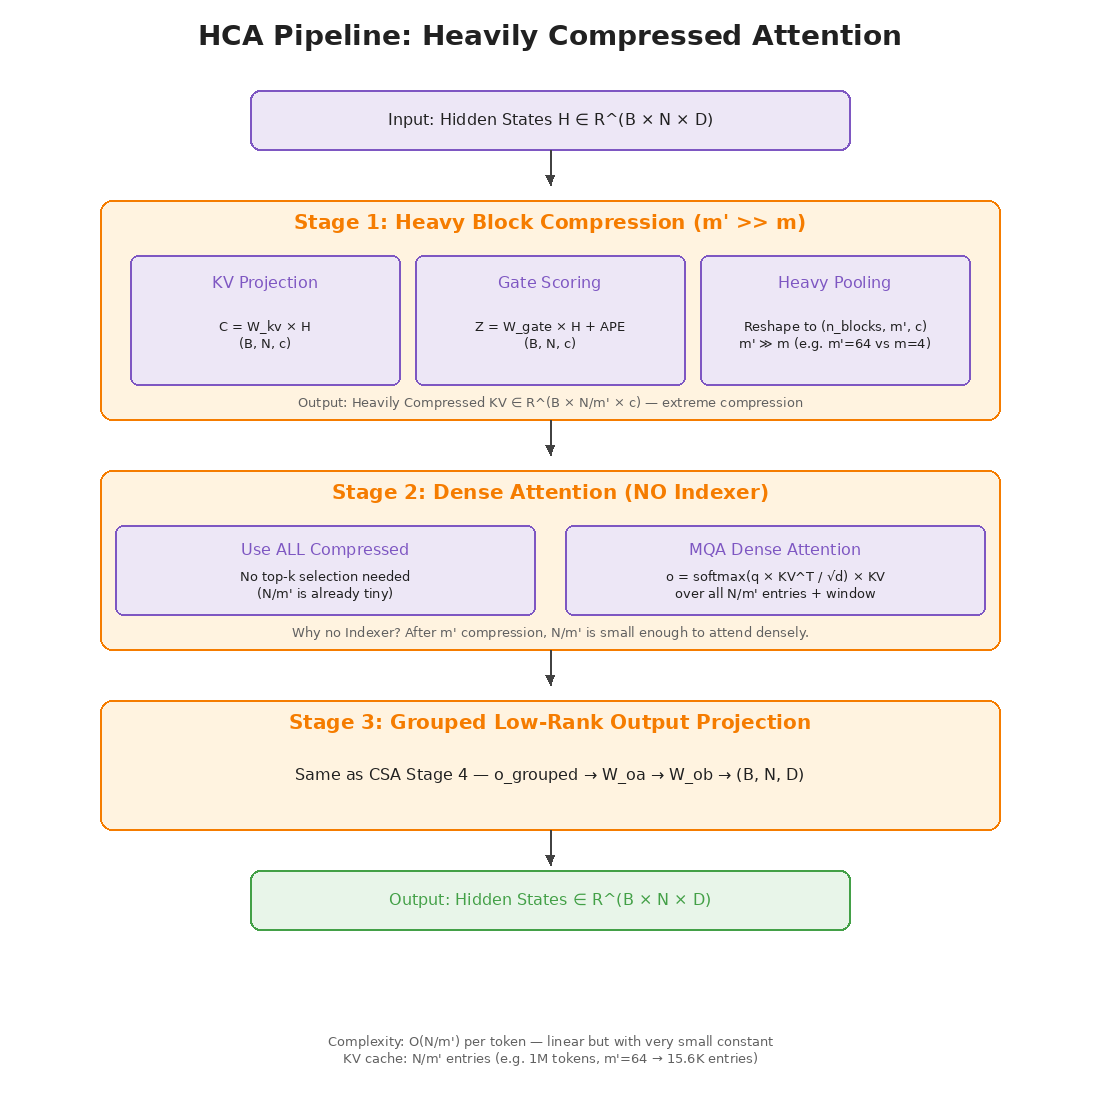
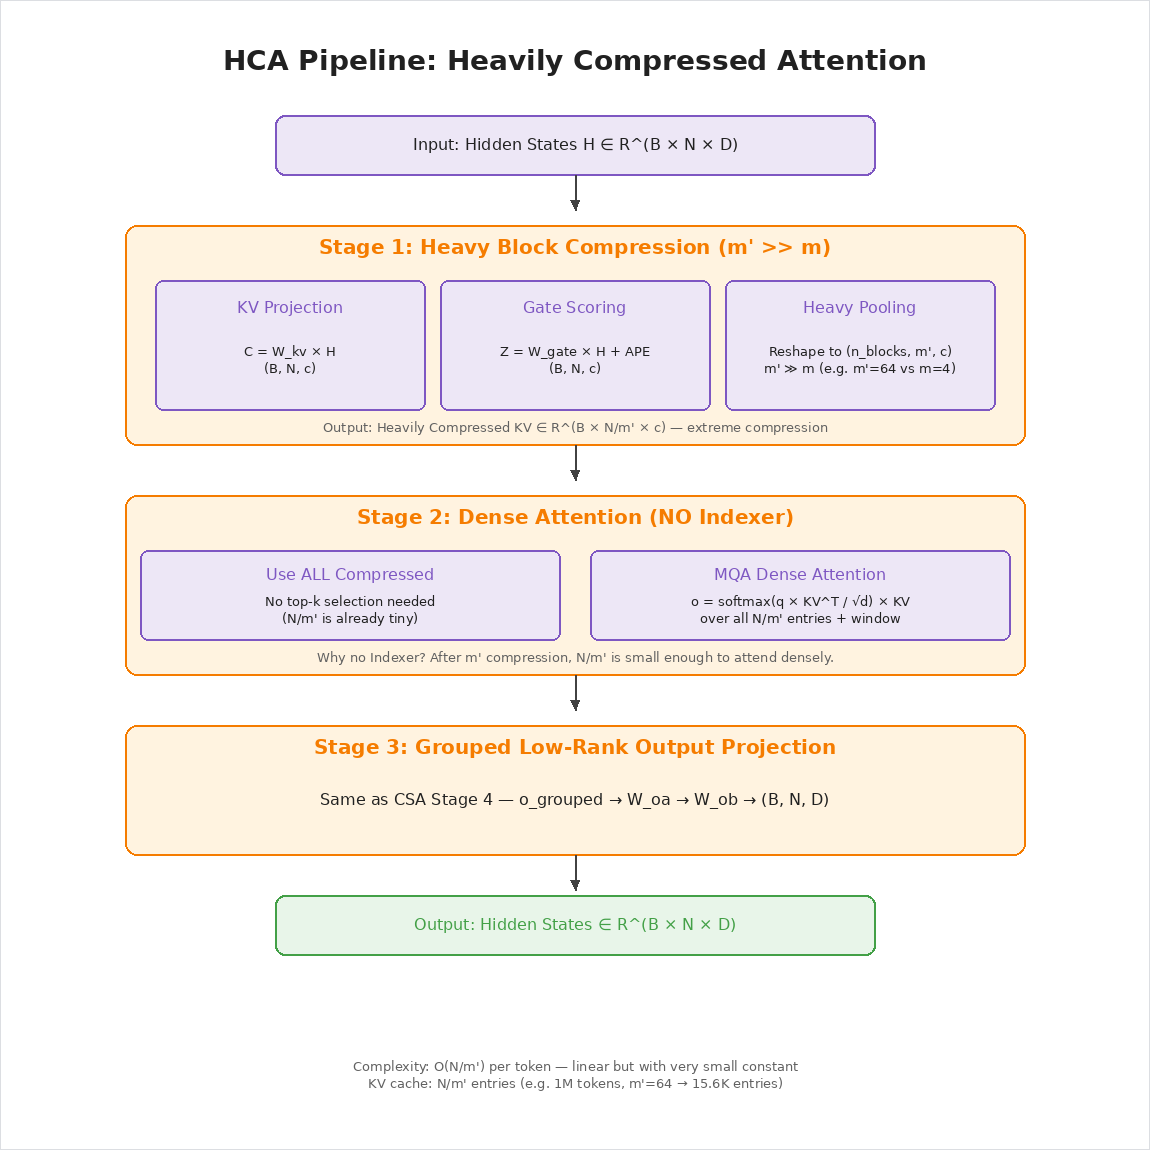
Beautify own diagrams (csa_pipeline, hca_pipeline, three_dimensions)
- PIL: same 24px white padding + 1px gray border treatment
- Markdown image syntax replaced with div+img+width
- Pipeline diagrams (tall): width=600
- Three dimensions (wide): width=720
- All diagrams now consistently centered with controlled width

diff --git a/DL-Algorithm-Insights/Long-Context-Efficient-Attention/README.md b/DL-Algorithm-Insights/Long-Context-Efficient-Attention/README.md
@@ -134,7 +134,9 @@ Output: one vector for position 128,001
 
 The key insight: from 128,000 entries, CSA narrows down to 576 — a reduction that makes long-context attention feasible on a single GPU. The cost of this narrowing is the risk of selecting the wrong 64 blocks. The sliding window ensures that at least the most recent context is never lost.
 
-![CSA Pipeline: 4 stages from input to output](images/csa_pipeline.png)
+<div align="center">
+  <img src="images/csa_pipeline.png" width="600" alt="CSA Pipeline: 4 stages from input to output">
+</div>
 
 The paper's CSA architecture diagram shows the same 4-stage pipeline in more detail:
 
@@ -291,7 +293,9 @@ The fundamental trade-off becomes clear when we put them next to each other:
 
 CSA is a sniper rifle — precise but narrow. HCA is a wide-angle lens — sees everything but at low resolution. Neither alone is sufficient. Together, they cover each other's blind spots.
 
-![HCA Pipeline: 3 stages, no Indexer needed](images/hca_pipeline.png)
+<div align="center">
+  <img src="images/hca_pipeline.png" width="600" alt="HCA Pipeline: 3 stages, no Indexer needed">
+</div>
 
 The paper's HCA diagram shows the simplified pipeline (no Indexer stage):
 
@@ -358,7 +362,9 @@ The overall V4 architecture diagram shows how CSA and HCA layers interleave acro
 
 With CSA and HCA understood, we can now position them in the broader design space. There are three orthogonal dimensions for reducing KV cache, and they can be combined freely:
 
-![Three orthogonal KV cache compression dimensions](images/three_dimensions.png)
+<div align="center">
+  <img src="images/three_dimensions.png" width="720" alt="Three orthogonal KV cache compression dimensions">
+</div>
 
 | Dimension | What It Compresses | Examples | Covered In |
 |:---------:|-------------------|----------|-----------|
